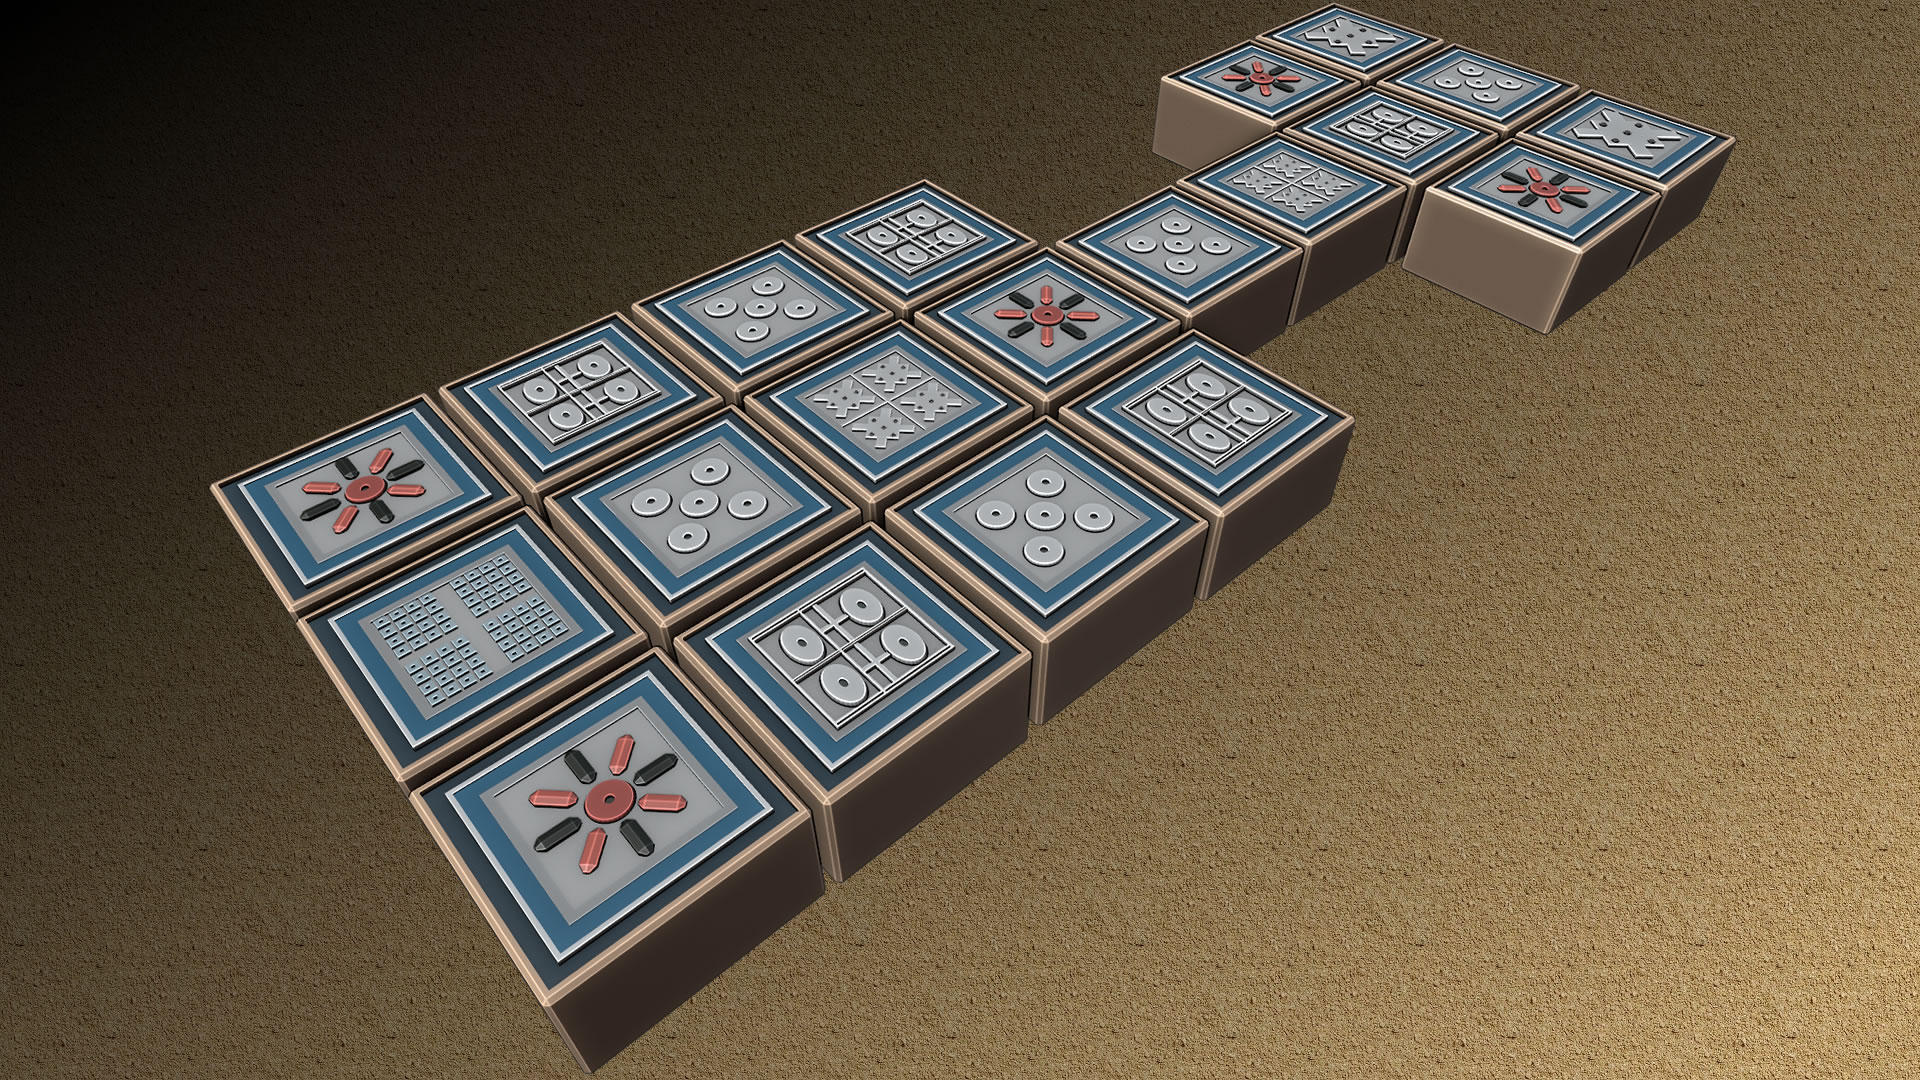
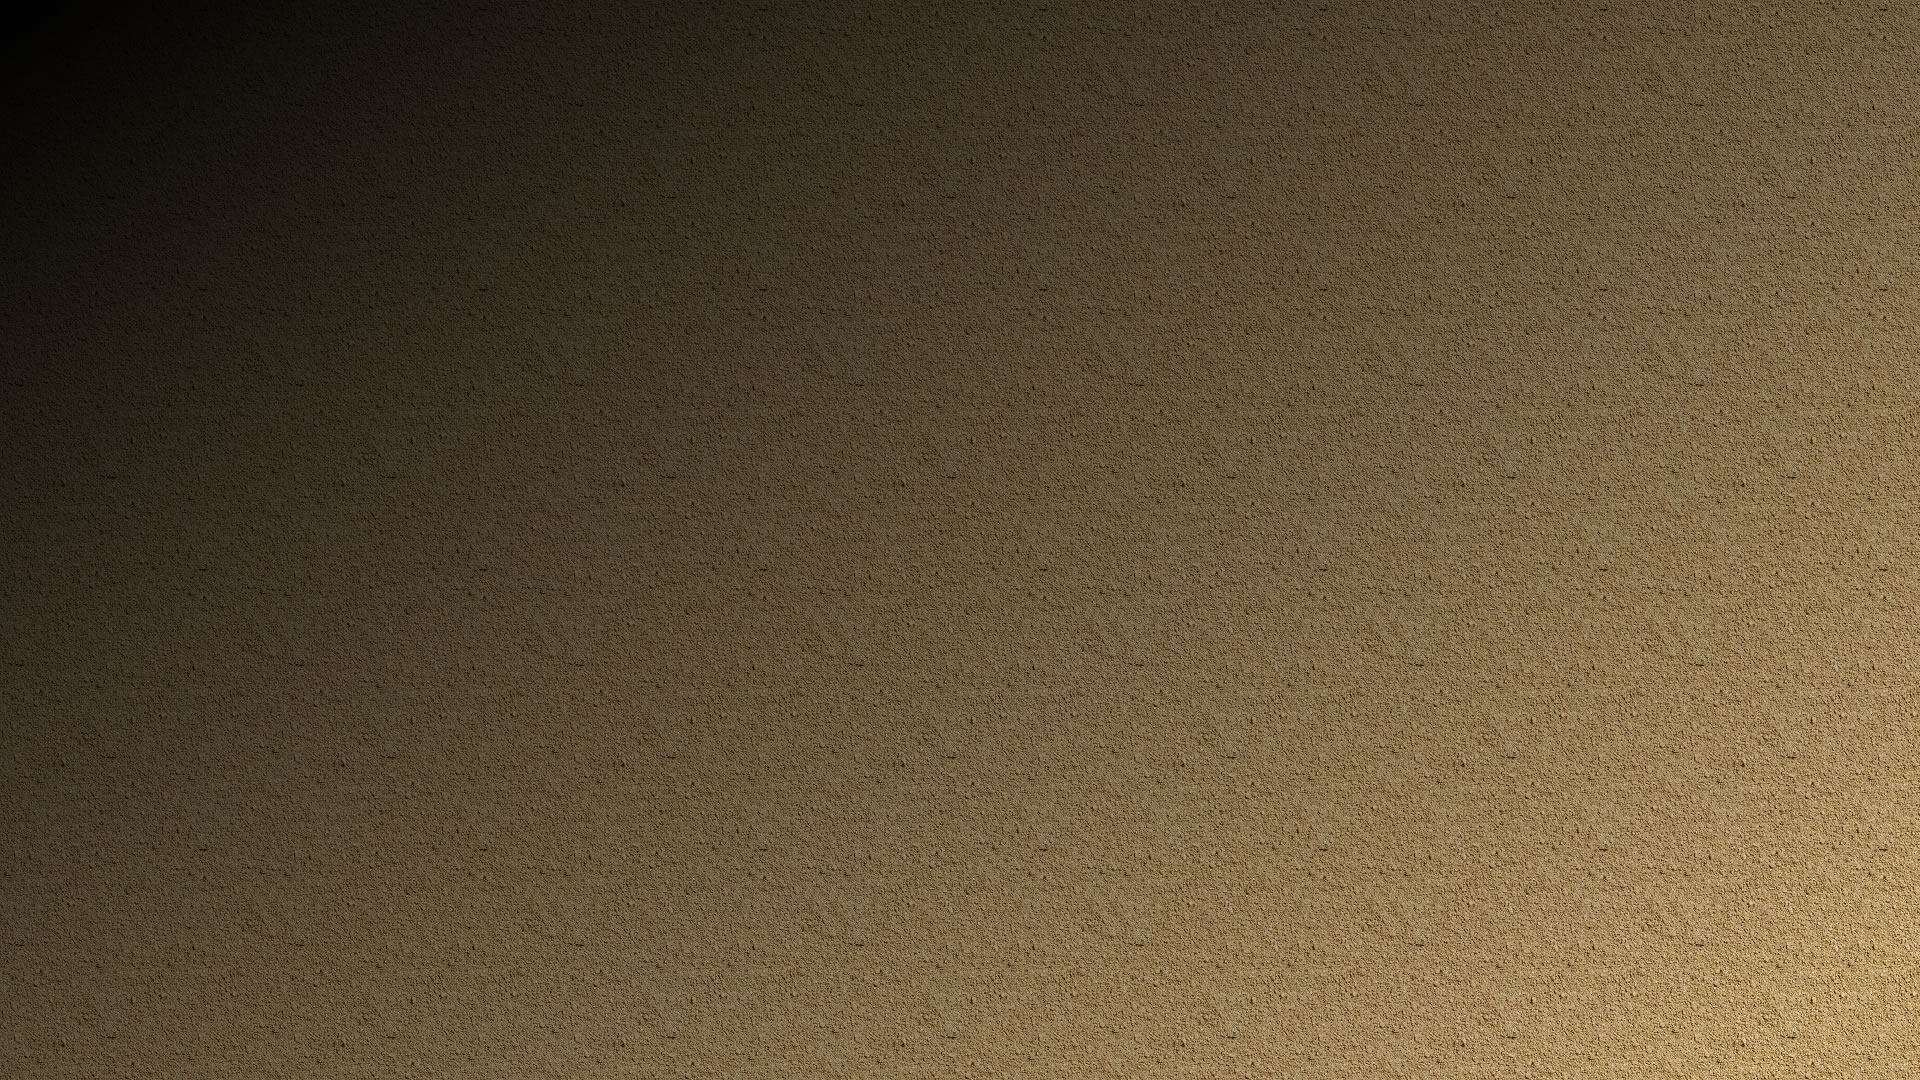
Loading Bar Added. Separated the board from the BG
Minor refactor. Using my quickGet instead of scene.c.getByName
Loading Bar: Like, a proper one. Not those janky microsoft ones where every file is assumed to be the same size (such as phasers built in progress...)
Fixed a bug... well, it wasnt a bug. It was introduced when I forced DEBUG to false and only enabled after checking local storage.
Added 'taking' var to counters, for easy access tot he enemy counter that is being taken.

diff --git a/js/vars.js b/js/vars.js
@@ -1,7 +1,7 @@
 var vars = {
     DEBUG: false,
 
-    version: 0.28,
+    version: 0.3,
 
     // APP
     animate: {
@@ -186,7 +186,7 @@ var vars = {
             if (vars.DEBUG) { duration = 0; }
             let depth = consts.depths.loading;
             // fade out the loading text
-            let oldText = scene.children.getByName('loadingText');
+            let oldText = vars.phaserObject.quickGet('loadingText');
             scene.tweens.add({
                 targets: oldText, alpha: 0,
                 duration: duration,
@@ -194,7 +194,7 @@ var vars = {
             })
 
             // fade out the old loading image
-            let oldImage = scene.children.getByName('loadingBG');
+            let oldImage = vars.phaserObject.quickGet('loadingBG');
             scene.tweens.add({
                 targets: oldImage, alpha: 0,
                 duration: duration*2,
@@ -228,7 +228,7 @@ var vars = {
         },
 
         pointsCount: (_p, _show=true)=> {
-            if (_p===null) { _p=scene.children.getByName('pointsCount'); } // when showing the points, the points text object is passed in, otherwise we have to grab it
+            if (_p===null) { _p=vars.phaserObject.quickGet('pointsCount'); } // when showing the points, the points text object is passed in, otherwise we have to grab it
             let alpha = _show === true ? 1 : 0;
             scene.tweens.add({
                 targets: _p,
@@ -262,8 +262,8 @@ var vars = {
 
         showBarrier: (_show=true)=> { // this deals with showing and hiding the barrier
             // when a players counter lands on "a4" a barrier shows. when they move away from it the barrier hides
-            scene.children.getByName('shield_1').setVisible(_show);
-            scene.children.getByName('shield_2').setVisible(_show);
+            vars.phaserObject.quickGet('shield_1').setVisible(_show);
+            vars.phaserObject.quickGet('shield_2').setVisible(_show);
         },
 
         showMessage: (_msg, _dur)=> { // variables have already been confirmed by this point
@@ -469,7 +469,7 @@ var vars = {
         getDiceObjects: ()=> {
             let diceObjects = [];
             [1,2,3,4].forEach( (dN)=> {
-                diceObjects.push(scene.children.getByName(`dice${dN}`));
+                diceObjects.push(vars.phaserObject.quickGet(`dice${dN}`));
             })
             return diceObjects;
         },
@@ -520,15 +520,16 @@ var vars = {
                     // check board position += points for counter
                     let newPos = board[_i+points];
                     let op = bPs[newPos].takenByPlayer;
-                    if (op!==currentPlayer && newPos!=='a4') {
-                        if (bPs[newPos].takenByPlayer!==currentPlayer) {
+                    if (currentPlayer!==op && newPos!=='a4') {
+                        if (op!==currentPlayer) {
                             validMoves.push([_p, newPos, op]);
+                            let taking = bPs[newPos].counterName;
                             // bounce this counter
                             let _o = vars.phaserObject.quickGet(counterID);
-                            _o.setData({ moveTo: newPos, moveFrom: _p });
+                            _o.setData({ moveTo: newPos, moveFrom: _p, taking: taking });
                             vars.animate.movableCounterBounce(_o);
                         }
-                    } 
+                    }
                 }
                 return true;
             })
@@ -602,8 +603,8 @@ var vars = {
                     gameObject.disableInteractive();
                     // fade out the loaded screen and text
                     // then start the game
-                    let bg = scene.children.getByName('loadedBG');
-                    let btn = scene.children.getByName('loadedButton');
+                    let bg = vars.phaserObject.quickGet('loadedBG');
+                    let btn = vars.phaserObject.quickGet('loadedButton');
                     let dur=2000;
                     if (vars.DEBUG) { dur=0; }
                     scene.tweens.add({
@@ -654,17 +655,12 @@ var vars = {
         },
 
         diceEnable: (_dice, _e=true)=> {
-            let dice = _dice;
             if (_e===true) {
-                console.log('👍 🎮 Enabling input on all dice.');
-                dice.forEach( (_d)=> {
-                    _d.setInteractive();
-                })
+                vars.DEBUG ? console.log('👍 🎮 Enabling input on all dice.') : null;
+                _dice.forEach( (_d)=> { _d.setInteractive(); })
             } else {
-                console.log('🛑 🎮 Disabling input on all dice.');
-                dice.forEach( (_d)=> {
-                    _d.disableInteractive();
-                })
+                vars.DEBUG ? console.log('🛑 🎮 Disabling input on all dice.') : null;
+                _dice.forEach( (_d)=> { _d.disableInteractive(); })
             }
         },
 
@@ -684,18 +680,11 @@ var vars = {
     player: {
         betterLuck: true, // this changes the chances of the die to roll a one from 25% to 50% as a lot of 0's were being thrown
         current: 1,
-        pointsTotal: 0,
-        diceComplete: 0,
+        pointsTotal: 0, diceComplete: 0,
 
         counters: {
-            white: {
-                atStart: [],
-                completed: [],
-            },
-            black: {
-                atStart: [],
-                completed: [],
-            }
+            white: { atStart: [], completed: [] },
+            black: { atStart: [], completed: [] }
         },
 
         init: ()=> {
@@ -705,14 +694,8 @@ var vars = {
         },
 
         betterLuckFn: ()=> {
-            console.log(' ...Better Luck Function');
-            let frameName = shuffle([1,2])[0];
-            if (frameName===1) {
-                frameName = 'dice1';
-            } else {
-                frameName = shuffle(Phaser.Utils.Array.NumberArray(2,4,'dice'))[0];
-            }
-            return frameName;
+            console.log(' 🏋🎲...Better Luck Function');
+            return shuffle([1,2])[0] === 1 ? 'dice1' : frameName = shuffle(Phaser.Utils.Array.NumberArray(2,4,'dice'))[0];
         },
 
         getCurrent: ()=> {
@@ -767,7 +750,8 @@ var vars = {
             let depth = dC.board;
 
             // draw the background (game board)
-            scene.add.image(vars.canvas.cX, vars.canvas.cY, 'gameBG').setInteractive().setName('gameBoard').setDepth(depth);
+            scene.add.image(vars.canvas.cX, vars.canvas.cY, 'sandBG').setInteractive().setName('sandBG').setDepth(depth);
+            scene.add.image(vars.canvas.cX, vars.canvas.cY, 'boardBG').setInteractive().setName('gameBoard').setDepth(depth);
 
             // draw the background for the dice area
             scene.add.image(1350, 550, 'whitePixel').setName('diceBlackBG').setTint(0x0).setAlpha(0.35).setDepth(depth+2).setScale(450,450).setOrigin(0);
@@ -804,8 +788,8 @@ var vars = {
             let startPosWhite = [ bPs.wS.x, bPs.wS.y];
             let startPosBlack = [ bPs.bS.x, bPs.bS.y];
             [1,2,3,4,5,6].forEach( (_c)=> {
-                let whiteCounter = scene.add.image(startPosWhite[0], startPosWhite[1],'counters').setFrame('wS').setDepth(depth).setAlpha(0).setName(`counterw_${_c}`).setData({moveFrom: '', moveTo: '', x: startPosWhite[0], y: startPosWhite[1], boardPosition: '' }).setInteractive();
-                let blackCounter = scene.add.image(startPosBlack[0], startPosBlack[1],'counters').setFrame('bS').setDepth(depth).setAlpha(0).setName(`counterb_${_c}`).setData({moveFrom: '', moveTo: '', x: startPosBlack[0], y: startPosBlack[1], boardPosition: '' }).setInteractive();
+                let whiteCounter = scene.add.image(startPosWhite[0], startPosWhite[1],'counters').setFrame('wS').setDepth(depth).setAlpha(0).setName(`counterw_${_c}`).setData({moveFrom: '', moveTo: '', x: startPosWhite[0], y: startPosWhite[1], boardPosition: '', taking: '' }).setInteractive();
+                let blackCounter = scene.add.image(startPosBlack[0], startPosBlack[1],'counters').setFrame('bS').setDepth(depth).setAlpha(0).setName(`counterb_${_c}`).setData({moveFrom: '', moveTo: '', x: startPosBlack[0], y: startPosBlack[1], boardPosition: '', taking: '' }).setInteractive();
                 scene.groups.whiteCounters.add(whiteCounter);
                 scene.groups.blackCounters.add(blackCounter);
             })
@@ -841,11 +825,11 @@ var vars = {
             // it is. update the UI
             let icon = _p===1 ? '🦳' : '🦱';
             console.log(`Next player is ${icon}`);
-            scene.children.getByName('playerText').setText(`Player ${_p}`)
+            vars.phaserObject.quickGet('playerText').setText(`Player ${_p}`)
         },
 
         rollTextSwitch: ()=> {
-            let txtObj = scene.children.getByName('rollText');
+            let txtObj = vars.phaserObject.quickGet('rollText');
             let oldText = txtObj.getData('old');
             let newText='';
             if (oldText==='') { newText = 'Please roll the dice'; }
@@ -862,8 +846,8 @@ var vars = {
         },
 
         showPlayerText: ()=> {
-            let pT = scene.children.getByName('playerText');
-            let rT = scene.children.getByName('rollText');
+            let pT = vars.phaserObject.quickGet('playerText');
+            let rT = vars.phaserObject.quickGet('rollText');
 
             let dur = vars.DEBUG ? 0 : 1000;
 
@@ -875,7 +859,7 @@ var vars = {
 
         showPointsCount: ()=> {
             let points = vars.player.pointsTotal;
-            let pC = scene.children.getByName('pointsCount');
+            let pC = vars.phaserObject.quickGet('pointsCount');
             pC.setText(points);
             vars.animate.pointsCount(pC, true);
         }

diff --git a/js/init.js b/js/init.js
@@ -1,5 +1,7 @@
-if (vars.DEBUG===true) { console.log('Initialising...'); }
+vars.localStorage.init(); // initialise local storage vars or DEBUG will always be false
+vars.DEBUG ? console.log('%c🖫 🖫 🖫 🖫 🖫 🖫\n Initialising. \n🖫 🖫 🖫 🖫 🖫 🖫', 'font-size: 20px; background-color: #000; color: #fff; font-family: Consolas') : null;
 
+var game;
 var config = {
     title: "URFaux",
     type: Phaser.WEBGL,
@@ -37,8 +39,16 @@ var config = {
     }
 };
 
-var game = new Phaser.Game(config);
-
+fetch("./assets/fileList.json").then(response => {
+    return response.json(); 
+}).then( (data)=> { 
+    let fV = vars.files;
+    fV.fileSizes=data;
+    // by the time we can show a loading bar, the loadingScreen and Text will already have laoded, so we add them here
+    let fSV = fV.fileSizes;
+    fSV.details.loadedSize=fSV.files['loadingScreen.jpg'] + fSV.files['loadingText.png'];
+    game = new Phaser.Game(config);
+});
 
 /*
 █████ ████  █████ █      ███  █████ ████  
@@ -50,6 +60,39 @@ var game = new Phaser.Game(config);
 var startTime = new Date();
 function preload() {
     scene = this;
+
+    var progressBar = this.add.graphics().setDepth(254);
+    var progressBox = this.add.graphics().setDepth(253);
+    progressBox.fillStyle(0x222222, 0.8);
+    progressBox.fillRect(vars.canvas.cX-320, vars.canvas.cY*1.75, 640, 50);
+
+    scene.load.on('load', (_fileData)=> {
+        let fSName = _fileData.src.replace(/assets\/\w+\//,'')
+        let fFV = vars.files.fileSizes;
+        let fS = fFV.files;
+        let before = fFV.details.loadedSize;
+        let tot = fFV.details.totalSize;
+        if (fS[fSName]!==undefined) {
+            // add this amount to the loaded size variable
+            fFV.details.loadedSize+=fS[fSName];
+            // convert it to a percentage
+            let loadedPercent = Phaser.Math.Clamp(~~(fFV.details.loadedSize/tot*100)/100, 0.01, 1);
+            console.log(`Loaded ${fSName}. ${loadedPercent*100}% (Adding: ${fS[fSName]} to ${before} = ${fFV.details.loadedSize}, ${tot})`);
+            progressBar.clear();
+            progressBar.fillStyle(0xffffff, 1);
+            progressBar.fillRect(vars.canvas.cX-310, vars.canvas.cY*1.75+10, 620 * loadedPercent, 30);
+            if (loadedPercent===1) {
+                scene.tweens.add({
+                    targets: [progressBar,progressBox],
+                    alpha: 0,
+                    delay: 500,
+                    duration: 500
+                })
+            }
+        } else {
+            console.log(`${fS[fSName]} was not found int the list...`);
+        }
+    })
     let depth = consts.depths.loading;
     let loadingBG = scene.add.image(vars.canvas.cX,-500,'loadingBG').setOrigin(0.5,0).setName('loadingBG').setDepth(depth);
     scene.tweens.add({

diff --git a/js/engineVars.js b/js/engineVars.js
@@ -3,7 +3,6 @@ vars.init = (stage=1)=> { // ENTRY POINT IS HERE
 
     console.log(`%cInitialising Stage ${stage}`, 'color: #00f000; font-size: 14px;');
     if (stage===1) { // preloader
-        v.localStorage.init(); // initialise local storage vars
         v.files.init(); // load all files
     }
 
@@ -73,10 +72,16 @@ vars.containers = {
 }
 
 vars.files = {
+    fileSizes: 0,
+    
     init: ()=> {
         let fV = vars.files;
         fV.audio.init();
         fV.images.init();
+    },
+
+    initNext: ()=> {
+
     },
 
     audio: {
@@ -91,7 +96,8 @@ vars.files = {
 
     images: {
         init: ()=> {
-            scene.load.image('gameBG',       'images/boardBG.jpg');
+            scene.load.image('sandBG',       'images/sand.jpg');
+            scene.load.image('boardBG',      'images/board.png');
             scene.load.atlas('counters',     'images/counters.png', 'images/counters.json');
             scene.load.atlas('dice',         'images/dice.png', 'images/dice.json');
             scene.load.image('loadedBG',     'images/loadedScreen.jpg');

diff --git a/assets/assetsFileList.php b/assets/assetsFileList.php
@@ -1,0 +1,36 @@
+<?php
+function dirToArray($dir) {
+    global $files, $totalSize;
+    $result = array();
+    $cdir = scandir($dir);
+    foreach ($cdir as $key => $value) {
+        if (substr_count($value,'__orig')===0) {
+            if (!in_array($value,array(".",".."))) {
+                if (is_dir($dir . DIRECTORY_SEPARATOR . $value)) {
+                    $result[$value] = dirToArray($dir . DIRECTORY_SEPARATOR . $value);
+                } else {
+                    if ((substr_count($value, '.png')>0 && substr_count($value, '.fw.')===0) || substr_count($value,'.jpg')>0 || substr_count($value,'.ogg')>0 || (substr_count($value,'.json')>0 && substr_count($value,'fileList.json')===0)) {
+                        if (substr_count($value, 'favicon')===0) {
+                            $result[] = $value; 
+                            $fSize = filesize($dir . DIRECTORY_SEPARATOR . $value);
+                            $files['files'][$value] = $fSize;
+                            $totalSize+=$fSize;
+                        }
+                    }
+                }
+            }
+        }
+    }
+    return $result;
+}
+
+
+$files['files'] = [];
+$dir = './';
+$totalSize=0;
+dirToArray($dir);
+
+$files['details']['totalSize'] = $totalSize;
+file_put_contents('./fileList.json', json_encode($files));
+echo json_encode($files);
+?>
